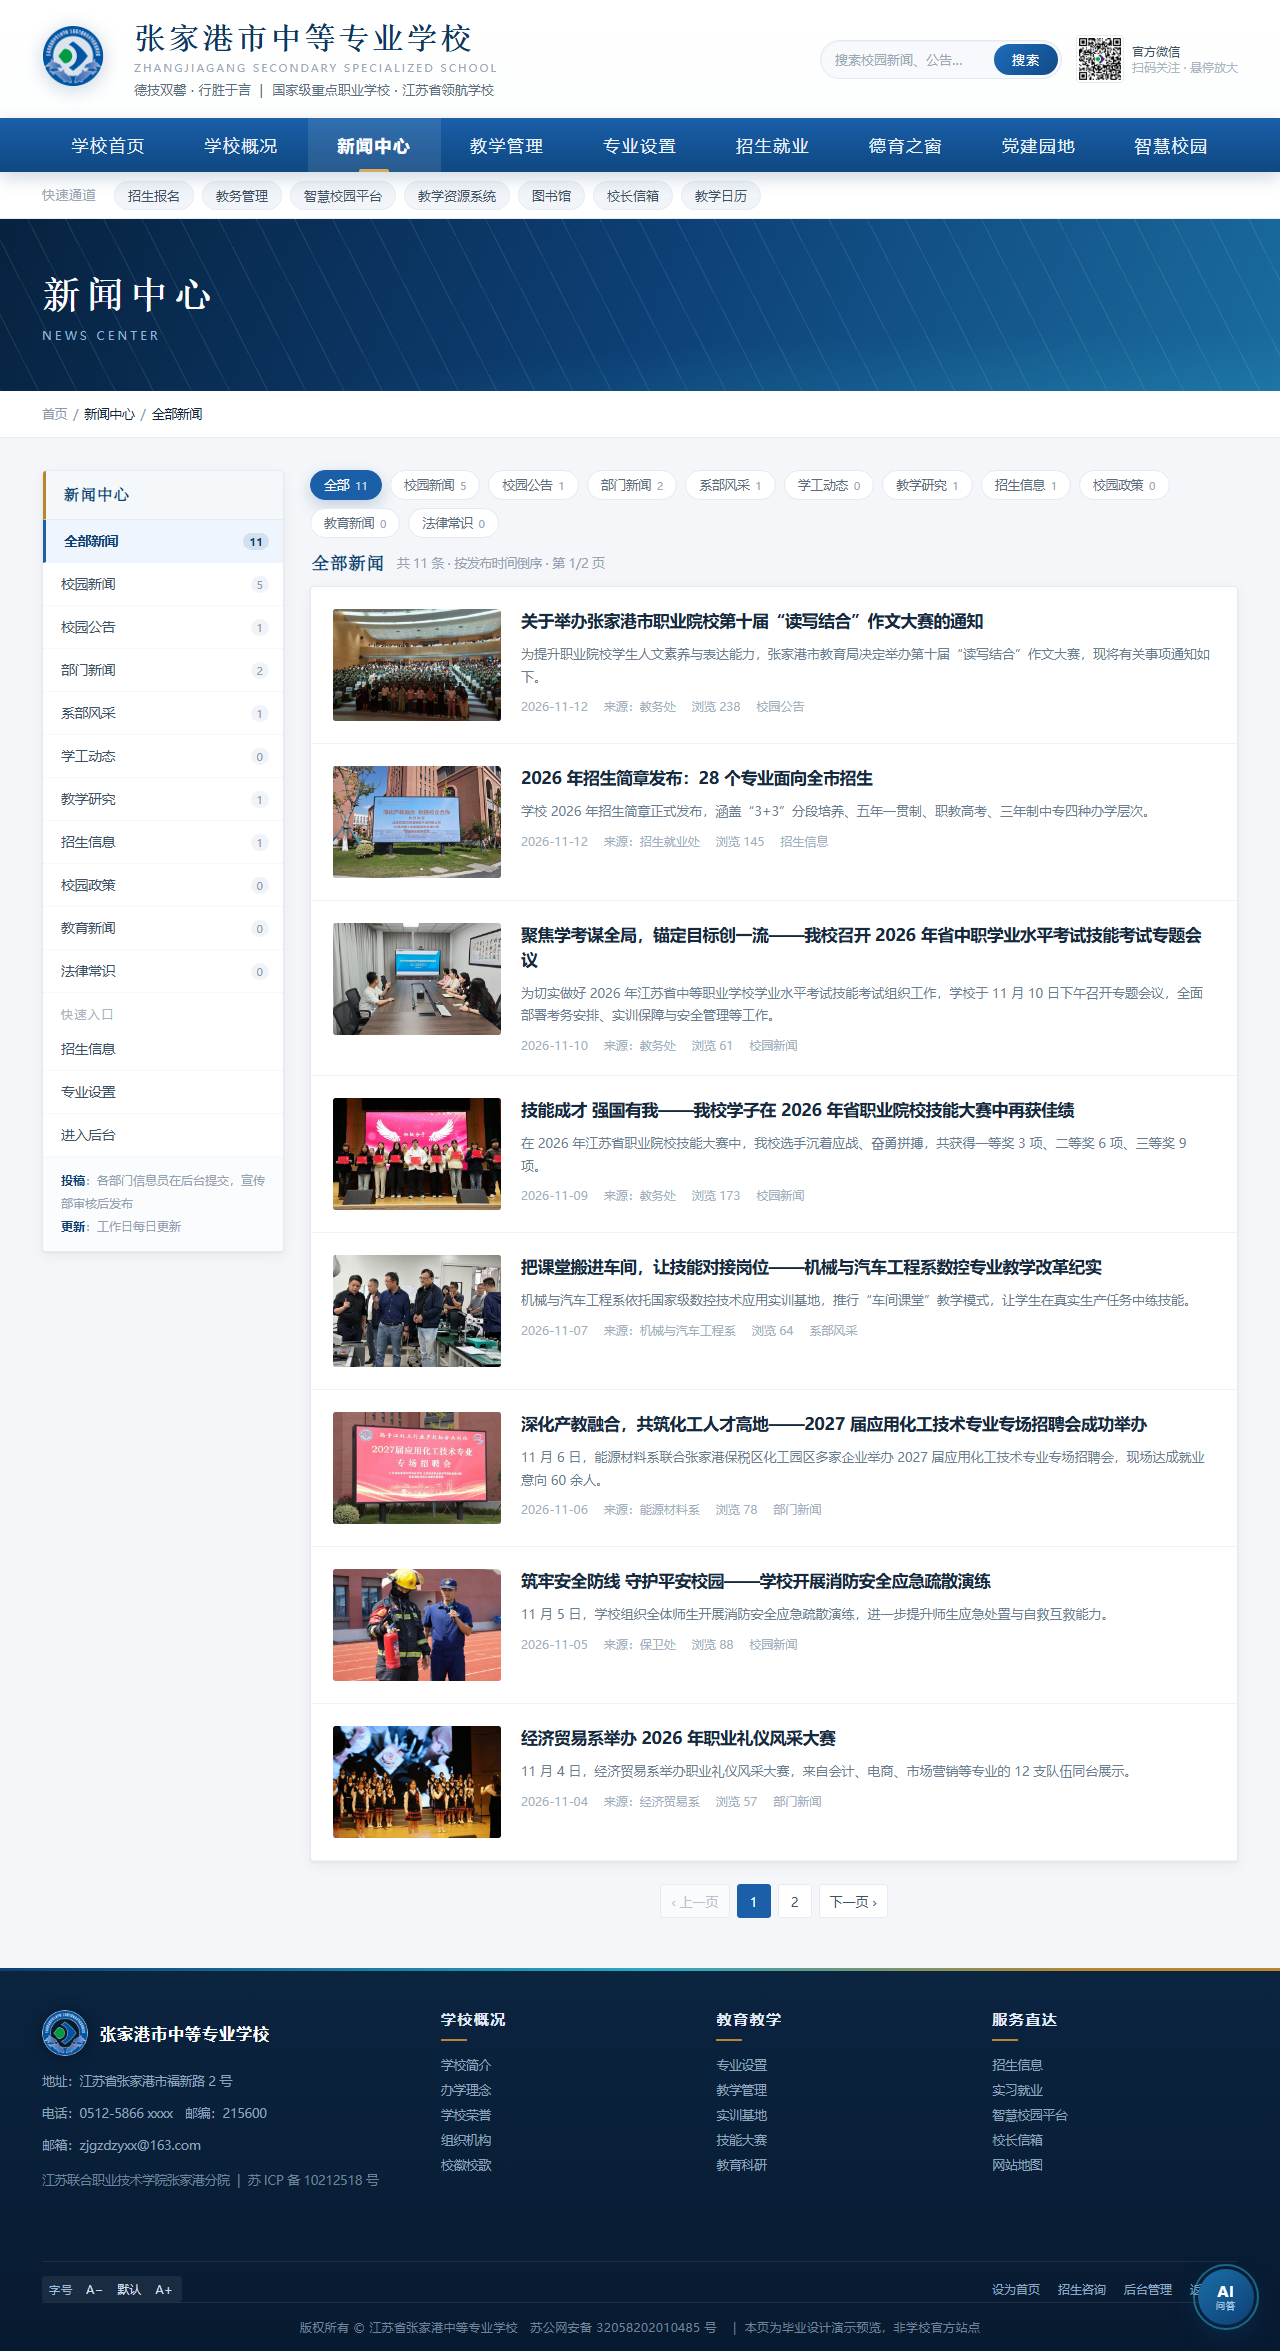
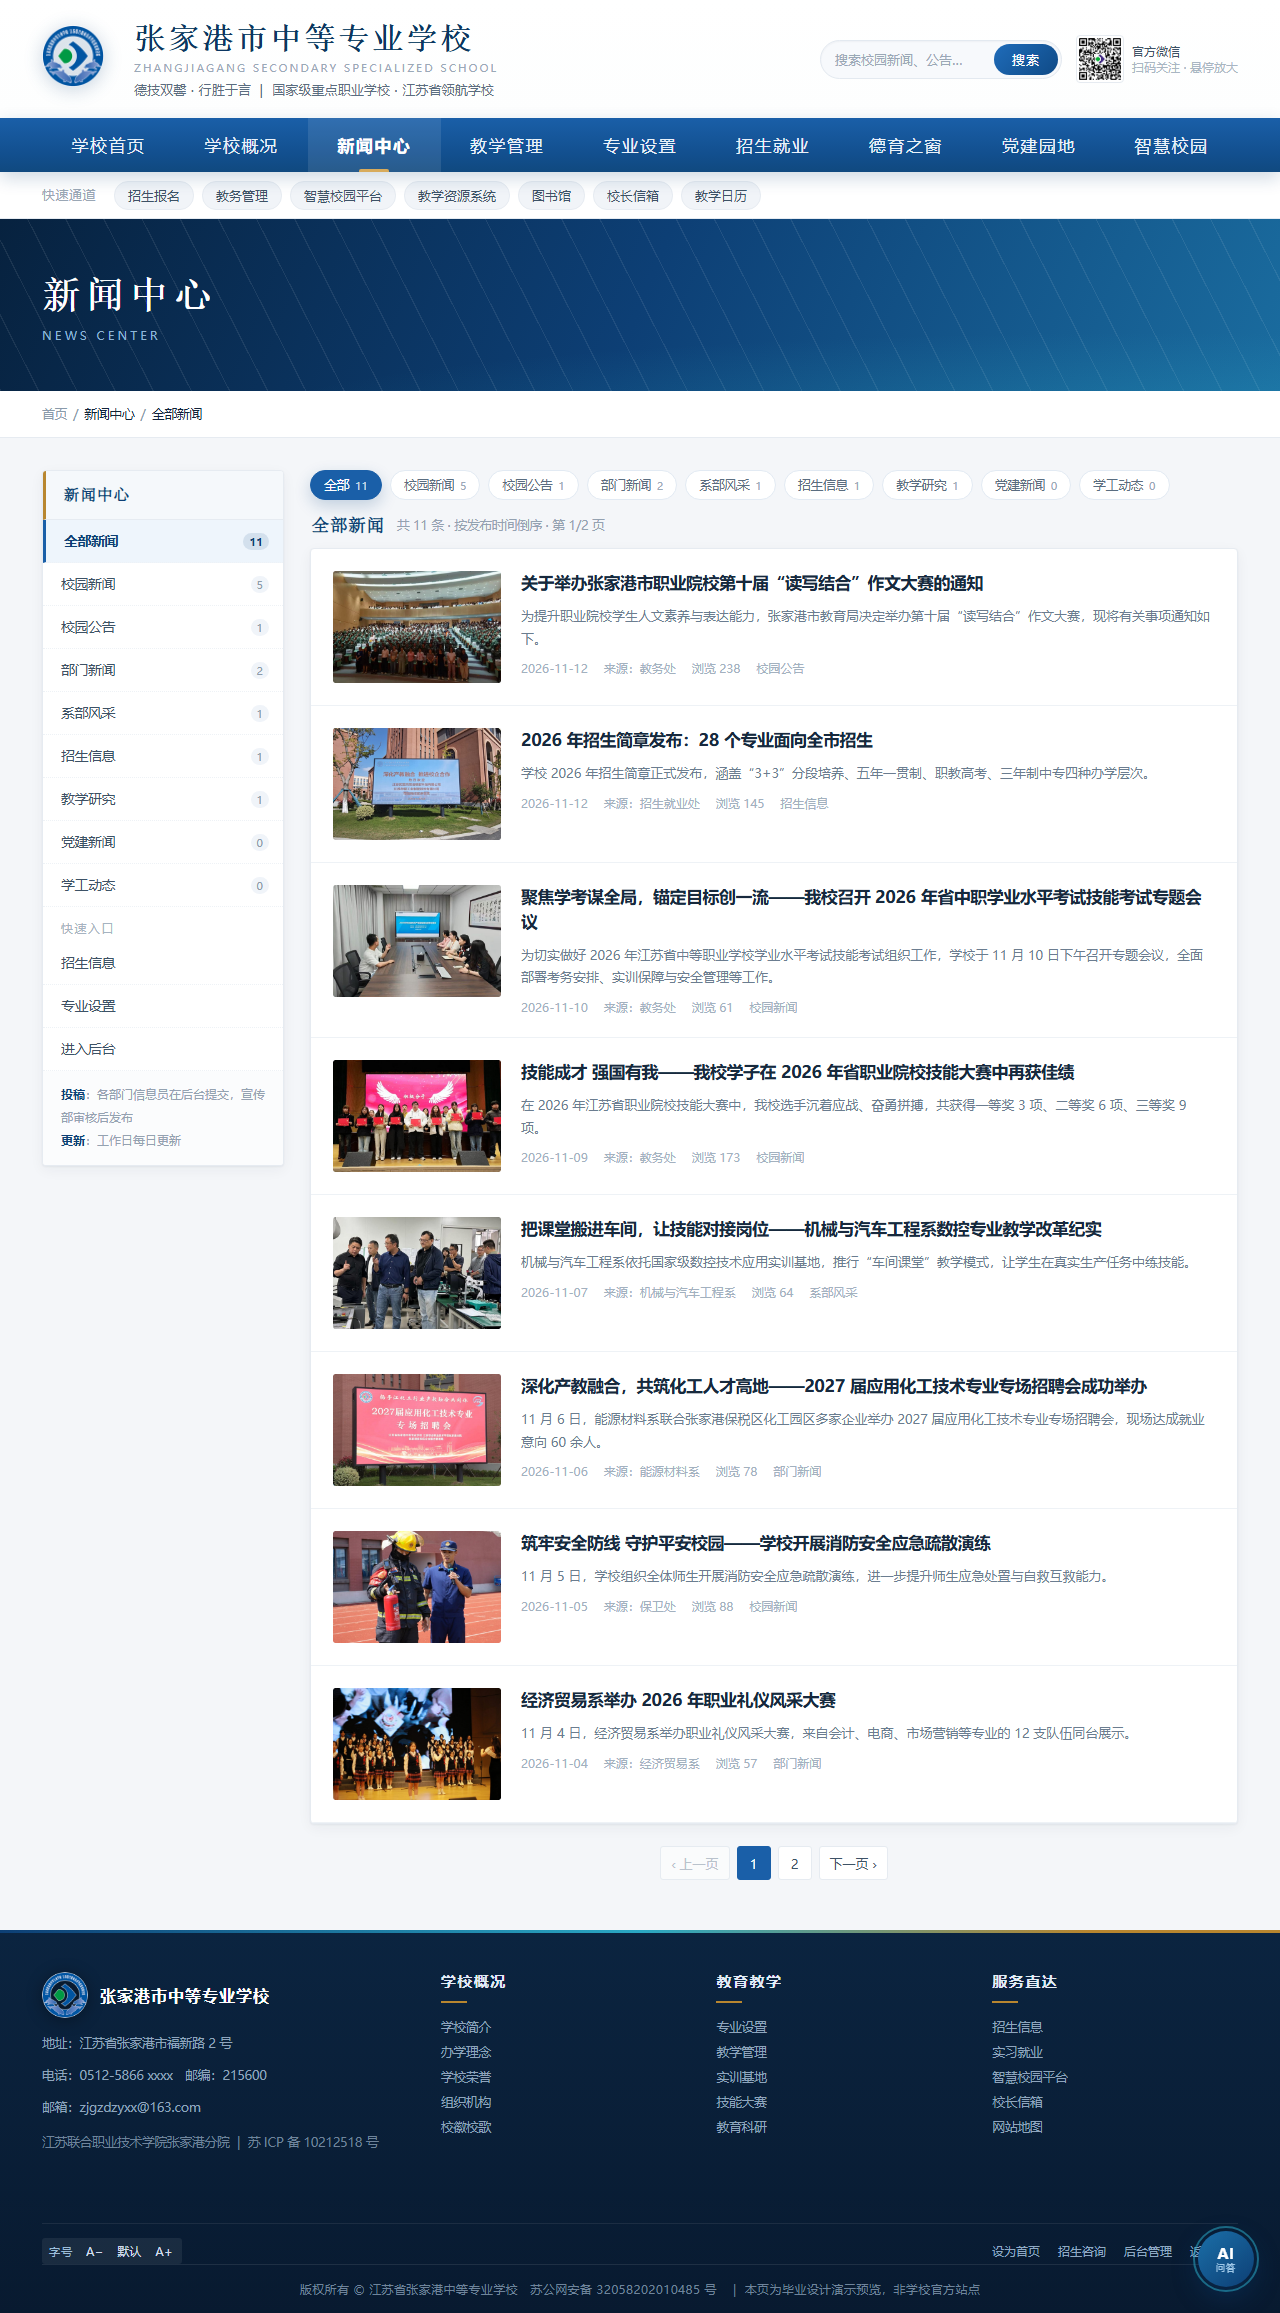
栏目管理与前台联动：新闻中心栏目/分类胶囊/首页新闻标签改为读取后台栏目；新增跨标签自动同步

diff --git a/admin.html b/admin.html
@@ -791,7 +791,7 @@ function pgCats(){
           <select id="c-parent">${groups.map(g=>`<option>${g}</option>`).join('')}<option>其他</option></select></div>
         <button class="btn pri" style="width:100%;padding:10px;" onclick="addCat()">＋ 添加栏目</button>
         <div style="margin-top:16px;font-size:12px;color:var(--ink3);line-height:1.9;border-top:1px dashed #eef2f6;padding-top:14px;">
-          提示：栏目与前台主导航、左侧子导航联动。正式版支持排序拖拽、栏目模板选择、权限绑定。
+          栏目改动会立即同步到前台：新闻中心的左侧栏目、分类胶囊、首页新闻分组都用这里的栏目。删除栏目不会删除文章，文章会变成「未归类」，可在文章管理里重新选择栏目。
         </div>
       </div>
     </div>
